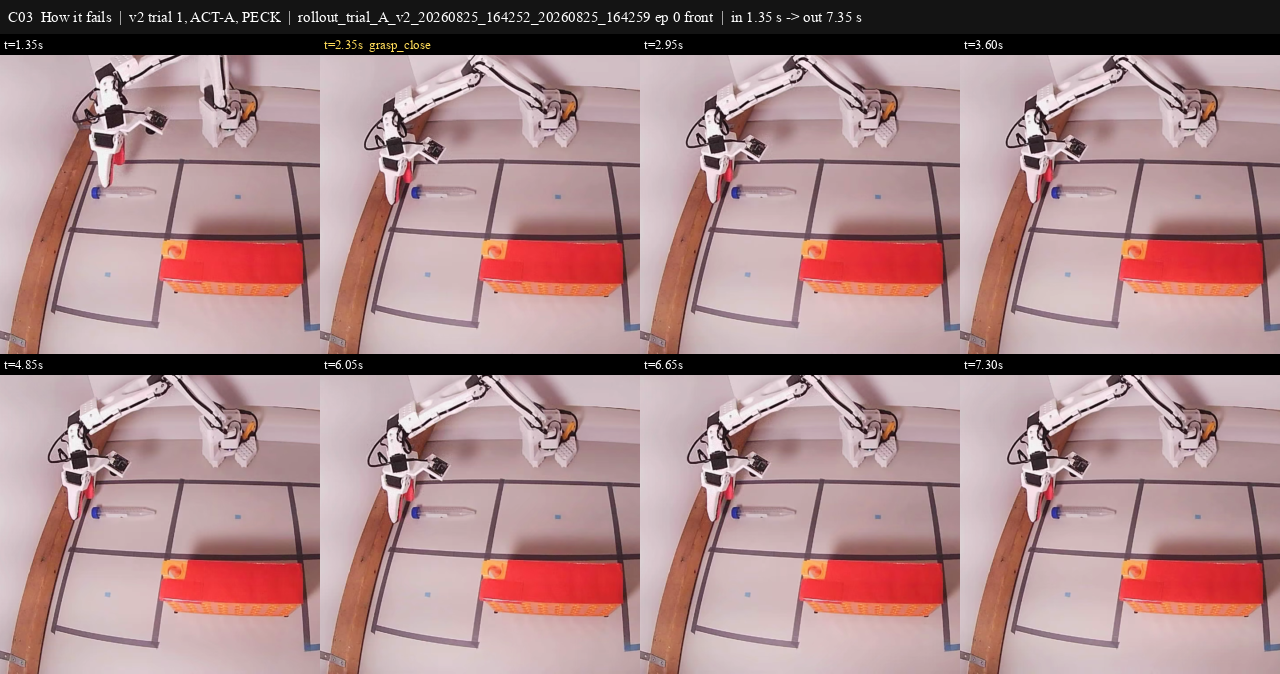
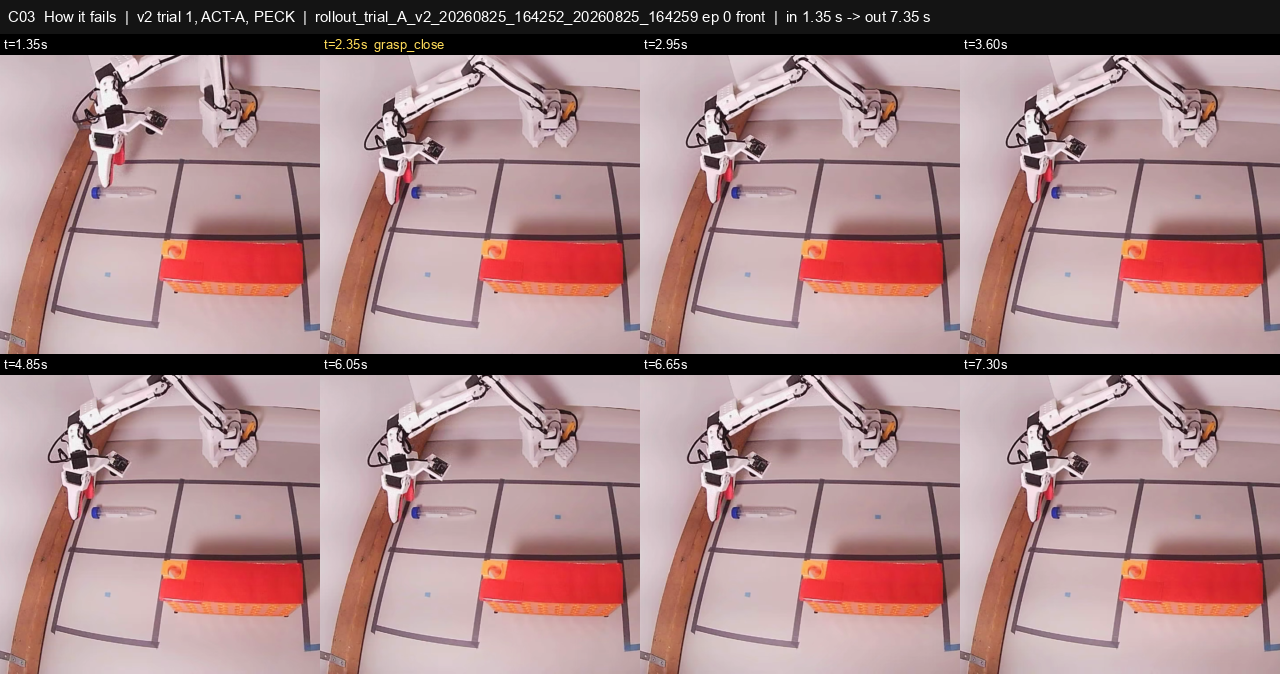
Demo video, clips and contact sheets in Arial

diff --git a/tests/test_demo_cut.py b/tests/test_demo_cut.py
@@ -39,10 +39,10 @@ needs_cache = pytest.mark.skipif(
     not (ROLLOUTS / "rollout_B2V-A-02_20260830_233508").is_dir(),
     reason="archived rollouts live only on the capstone Mac",
 )
-# Faith, Oct 7 2026: every on-screen word is set in Times New Roman, which ships with macOS.
-TIMES_NEW_ROMAN = Path("/System/Library/Fonts/Supplemental/Times New Roman.ttf")
-needs_font = pytest.mark.skipif(not TIMES_NEW_ROMAN.is_file(),
-                                reason="Times New Roman ships with macOS")
+# Faith, Oct 7 2026 (afternoon): every on-screen word is set in Arial, the deck's font, so the
+# video, clips and slides match. Arial ships with macOS.
+VIDEO_FONT = Path("/System/Library/Fonts/Supplemental/Arial.ttf")
+needs_font = pytest.mark.skipif(not VIDEO_FONT.is_file(), reason="Arial ships with macOS")
 
 
 # --- 3. event detectors -------------------------------------------------------------------
@@ -501,18 +501,18 @@ def test_cut_is_35_70_s_of_clips_plus_5_s_of_cards():
 
 
 @needs_font
-def test_the_video_font_is_times_new_roman_at_every_size_used():
-    assert Path(dc.FONT_PATH) == TIMES_NEW_ROMAN
+def test_the_video_font_is_arial_regular_at_every_size_used():
+    assert Path(dc.FONT_PATH) == VIDEO_FONT
     for size in (dc.SECTION_SIZE, dc.CAPTION_SIZE, dc.CARD_SIZE):
         font = dc._font(size)
-        assert font.getname() == ("Times New Roman", "Regular"), font.getname()
+        assert font.getname() == ("Arial", "Regular"), font.getname()
         assert font.size == size
 
 
 @needs_font
-def test_every_text_render_draws_in_times_new_roman(monkeypatch):
+def test_every_text_render_draws_in_arial(monkeypatch):
     """Spy on PIL's text call: the section title, the caption and every card line must each be
-    drawn with an explicit Times New Roman font, never PIL's default and never Helvetica."""
+    drawn with an explicit Arial font, never PIL's default and never a system fallback."""
     from PIL import ImageDraw
     drawn = []
     real_text = ImageDraw.ImageDraw.text
@@ -530,14 +530,14 @@ def test_every_text_render_draws_in_times_new_roman(monkeypatch):
                                      *dc.TITLE_CARD.lines, *dc.END_CARD.lines]
     for text, font in drawn:
         assert font is not None, f"{text!r} drawn in PIL's default font"
-        assert font.getname()[0] == "Times New Roman", (text, font.getname())
+        assert font.getname()[0] == "Arial", (text, font.getname())
 
 
 def test_a_missing_font_is_refused_not_swapped_for_another(monkeypatch):
     """A fallback chain (the old Helvetica -> Arial -> PIL default) would render a public video in
     a font nobody chose without a word. A missing font must stop the render."""
     dc._font.cache_clear()
-    monkeypatch.setattr(dc, "FONT_PATH", "/nonexistent/Times New Roman.ttf")
+    monkeypatch.setattr(dc, "FONT_PATH", "/nonexistent/Arial.ttf")
     try:
         with pytest.raises(OSError):
             dc._font(34)

diff --git a/tools/demo_cut.py b/tools/demo_cut.py
@@ -8,7 +8,7 @@ cut). This tool touches no hardware: it reads rollout parquet and video from the
 Re-cut Sep 22 2026 for a stranger with 90 seconds (a PhD student or founder opening a
 cold-email link) who needs three answers: what is the task, does it work, how does it fail.
 Five clips between a title card and an end card, about 41 s (Oct 7: cards trimmed to 2 s and
-3 s, every on-screen word set in Times New Roman, at Faith's request). Everything that was on screen to
+3 s, every on-screen word set in Arial, at Faith's request). Everything that was on screen to
 satisfy a skeptical reviewer (dates, dataset versions, trial numbers, arm labels, run ids,
 operator resets) now lives only in EDL.md, which is the audit trail; captions are one line of
 at most eight plain words. The v2 A/B comparison was a null and is not a point this video makes.
@@ -529,7 +529,8 @@ def plan(events):
 # Faith, Oct 7 2026: Helvetica "feels very basic and plain but in a bad way, try Times New Roman".
 # One font, no fallback chain: a missing font stops the render instead of quietly swapping in
 # another face (the old Helvetica -> Arial -> PIL-default chain could do exactly that).
-FONT_PATH = "/System/Library/Fonts/Supplemental/Times New Roman.ttf"
+# Oct 7 afternoon: Arial, the deck's font, so video, clips and slides all match (ships with macOS).
+FONT_PATH = "/System/Library/Fonts/Supplemental/Arial.ttf"
 SECTION_SIZE = 24      # section title above the caption
 CAPTION_SIZE = 34      # the one-line caption
 CARD_SIZE = 40         # title and end card lines

diff --git a/PROVENANCE.md b/PROVENANCE.md
@@ -1,6 +1,6 @@
 # Provenance
 
-This repository is a snapshot of a private working repository, copied on 2026-10-07 from its commit `15eadf1` by an allowlist. It has fresh history on purpose: the private history holds working notes, home camera frames and the blinding key of a study that is still sealed. Nothing here was written for this copy except `README.md`, `LICENSE`, `.gitignore` and this file.
+This repository is a snapshot of a private working repository, copied on 2026-10-07 from its commit `2f27e70` by an allowlist. It has fresh history on purpose: the private history holds working notes, home camera frames and the blinding key of a study that is still sealed. Nothing here was written for this copy except `README.md`, `LICENSE`, `.gitignore` and this file.
 
 **Copied:** 228 tracked files. **Left out:** 513 tracked files, in these classes: the blinding key and everything derived from it (schedules, ledgers, sealed consoles, raw rollouts, six tests, the v4 bench sheet, the v4 protocol text), working notes, personal and machine-specific files, bulk diagnostic frames, home camera frames, and every video (the demo video ships as a release asset).
 

diff --git a/README.md b/README.md
@@ -231,4 +231,4 @@ A 3D-printed SO-ARM101 pair, leader and follower, with Hiwonder HX-30HM servos o
 
 ### License
 
-Apache-2.0. Snapshot of the private working repository at commit `15eadf1`. See [`PROVENANCE.md`](PROVENANCE.md).
+Apache-2.0. Snapshot of the private working repository at commit `2f27e70`. See [`PROVENANCE.md`](PROVENANCE.md).
